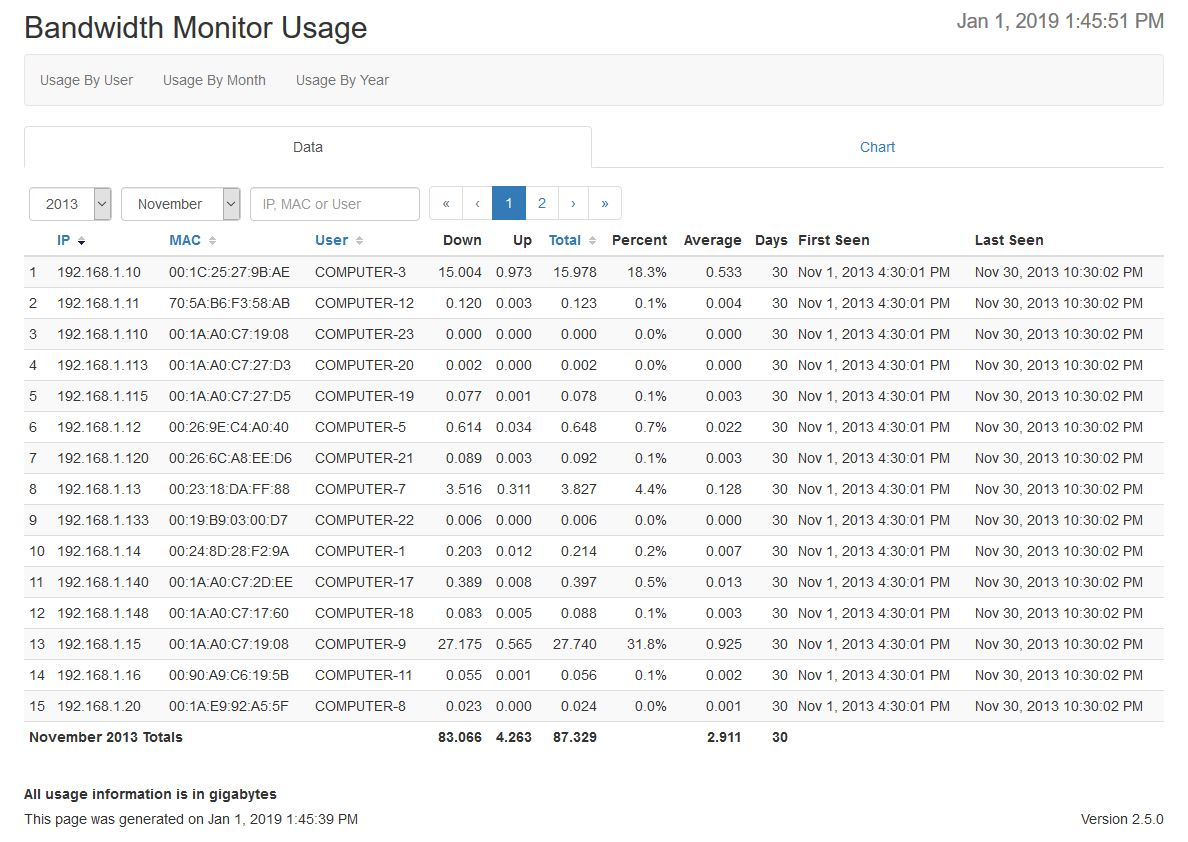
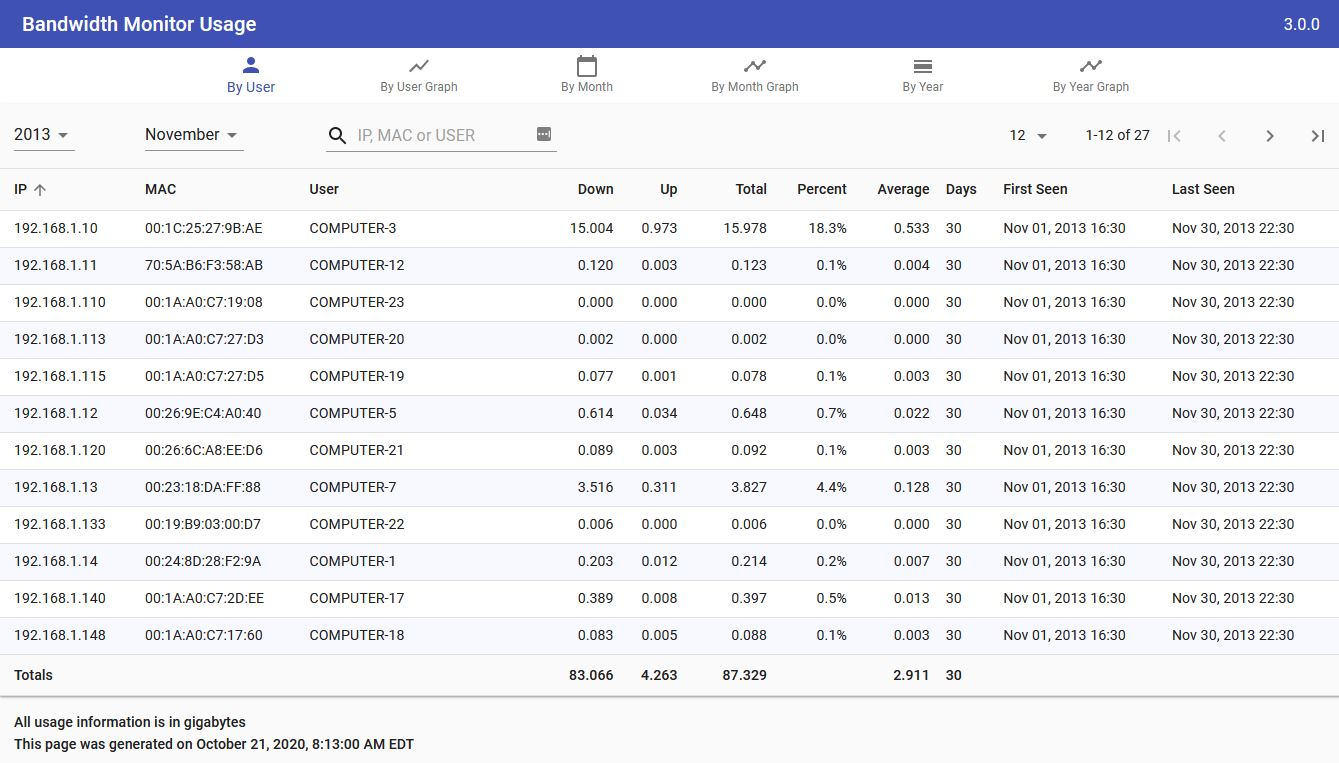
code cleanup

diff --git a/react/src/App.js b/react/src/App.js
@@ -1,5 +1,6 @@
 import React from 'react';
 import { BrowserRouter } from 'react-router-dom';
+import { DateTime } from 'luxon';
 import theme from './theme';
 import { ThemeProvider } from '@material-ui/core/styles';
 import { CssBaseline } from '@material-ui/core';
@@ -18,7 +19,7 @@ export const history = createBrowserHistory({
     basename: basepath,
 });
 
-const App = () => (
+const App = ({ currentTime }) => (
     <BrowserRouter basename={basepath}>
         <ThemeProvider theme={theme}>
             <CssBaseline />
@@ -26,10 +27,14 @@ const App = () => (
             <Navigation menu={menu} />
             <ErrorBoundary>
                 <Routes menu={menu} />
-                <Footer />
+                <Footer currentTime={currentTime} />
             </ErrorBoundary>
         </ThemeProvider>
     </BrowserRouter>
 );
+
+App.defaultProps = {
+    currentTime: DateTime.local().toLocaleString(DateTime.DATETIME_FULL_WITH_SECONDS),
+};
 
 export default App;

diff --git a/react/src/components/main/Footer.js b/react/src/components/main/Footer.js
@@ -1,20 +1,22 @@
 import React from 'react';
 import { makeStyles } from '@material-ui/core/styles';
-import Typography from '@material-ui/core/Typography';
+import { Typography } from '@material-ui/core';
 
 const useStyles = makeStyles((theme) => ({
-    footer: {
-        margin: theme.spacing(1),
+    root: {
+        flexGrow: 1,
+        margin: theme.spacing(2),
     },
 }));
 
-const Footer = () => {
+const Footer = ({ currentTime }) => {
     const classes = useStyles();
 
     return (
-        <Typography variant="subtitle2" className={classes.footer}>
-            All usage information is in gigabytes
-        </Typography>
+        <div className={classes.root}>
+            <Typography variant="subtitle2">All usage information is in gigabytes</Typography>
+            <Typography variant="subtitle2">This page was generated on {currentTime}</Typography>
+        </div>
     );
 };
 

diff --git a/react/src/App.test.js b/react/src/App.test.js
@@ -1,10 +1,28 @@
 import React from 'react';
-import { create } from 'react-test-renderer';
+import { act, create } from 'react-test-renderer';
+import wait from './__test__/utils/Wait';
+
+jest.mock('./services/Usage');
+
 import App from './App';
 
 describe('App', () => {
+    const currentTime = 'October 20, 2020, 11:25:35 AM EDT';
+
     test('renders correctly', () => {
-        const tree = create(<App />).toJSON();
+        const tree = create(<App currentTime={currentTime} />).toJSON();
         expect(tree).toMatchSnapshot();
     });
+
+    // current issue in Material UI Table Pagination label id
+    /*
+    test('renders correctly after data load', async () => {
+        let tree;
+        act(() => {
+            tree = create(<App currentTime={currentTime} />);
+        });
+        await wait(1);
+        expect(tree.toJSON()).toMatchSnapshot();
+    });
+    */
 });

diff --git a/react/src/components/table/Body.js b/react/src/components/table/Body.js
@@ -6,7 +6,11 @@ import TableRow from '@material-ui/core/TableRow';
 const Body = ({ prefix, cellInfos, values }) => (
     <TableBody>
         {values.map((value, index) => (
-            <TableRow key={value.id} id={prefix + '-data-' + index}>
+            <TableRow
+                key={value.id}
+                id={prefix + '-data-' + index}
+                style={index % 2 ? { background: 'ghostwhite' } : { background: 'white' }}
+            >
                 {cellInfos.map((cellInfo) => {
                     return (
                         <TableCell key={cellInfo.id} align={cellInfo.align}>

diff --git a/react/src/theme.js b/react/src/theme.js
@@ -4,12 +4,12 @@ const theme = createMuiTheme({
     overrides: {
         MuiTableCell: {
             sizeSmall: {
-                padding: '8px 0px 8px 8px',
+                padding: '8px 0px 8px 16px',
             },
         },
         MuiFormControl: {
             root: {
-                margin: '8px 0px 8px 8px',
+                margin: '8px 0px 8px 16px',
             },
         },
         MuiGrid: {

diff --git a/react/src/components/main/Footer.test.js b/react/src/components/main/Footer.test.js
@@ -3,8 +3,10 @@ import { create } from 'react-test-renderer';
 import Footer from './Footer';
 
 describe('Footer', () => {
+    const currentTime = 'October 20, 2020, 11:25:35 AM EDT';
+
     test('renders correctly', () => {
-        const tree = create(<Footer />).toJSON();
+        const tree = create(<Footer currentTime={currentTime} />).toJSON();
         expect(tree).toMatchSnapshot();
     });
 });

diff --git a/react/src/pages/byuser/UsageByUser.test.js b/react/src/pages/byuser/UsageByUser.test.js
@@ -11,8 +11,8 @@ describe('UsageByUser', () => {
         expect(tree).toMatchSnapshot();
     });
 
-    /*
     // current issue in Material UI Table Pagination label id
+    /*
     test('renders correctly after data load', async () => {
         let tree;
         act(() => {

diff --git a/react/src/pages/byuser/UsageByUserGraph.js b/react/src/pages/byuser/UsageByUserGraph.js
@@ -10,7 +10,7 @@ import Loading from '../../components/loading/Loading';
 const useStyles = makeStyles((theme) => ({
     root: {
         flexGrow: 1,
-        margin: theme.spacing(1),
+        margin: theme.spacing(2),
     },
 }));
 

diff --git a/README.md b/README.md
@@ -2,6 +2,8 @@
 
 A simple shell script designed to run on [AsusWRT-Merlin](https://asuswrt.lostrealm.ca) powered routers
 
+![Sample Usage by User Screenshot](https://github.com/VREMSoftwareDevelopment/bwmon/raw/master/screenshots/UsageByUserData.jpg 'Sample Usage by User Screenshot')
+
 [Try a demo version of this application](https://vremsoftwaredevelopment.github.io/bwmon/bwmon)
 
 ### Software Features:
@@ -24,7 +26,7 @@ A simple shell script designed to run on [AsusWRT-Merlin](https://asuswrt.lostre
     -   `cd /mnt/<mounted_name>/`
     -   `mkdir bwmon`
     -   `cd bwmon`
-    -   `wget https://github.com/VREMSoftwareDevelopment/bwmon/releases/download/v3.0.1/bwmon.tar.gz`
+    -   `wget https://github.com/VREMSoftwareDevelopment/bwmon/releases/download/v2.5.1/bwmon.tar.gz`
     -   `tar -xzvf bwmon.tar.gz`
     -   `chmod +x install.sh`
     -   `./install.sh`
